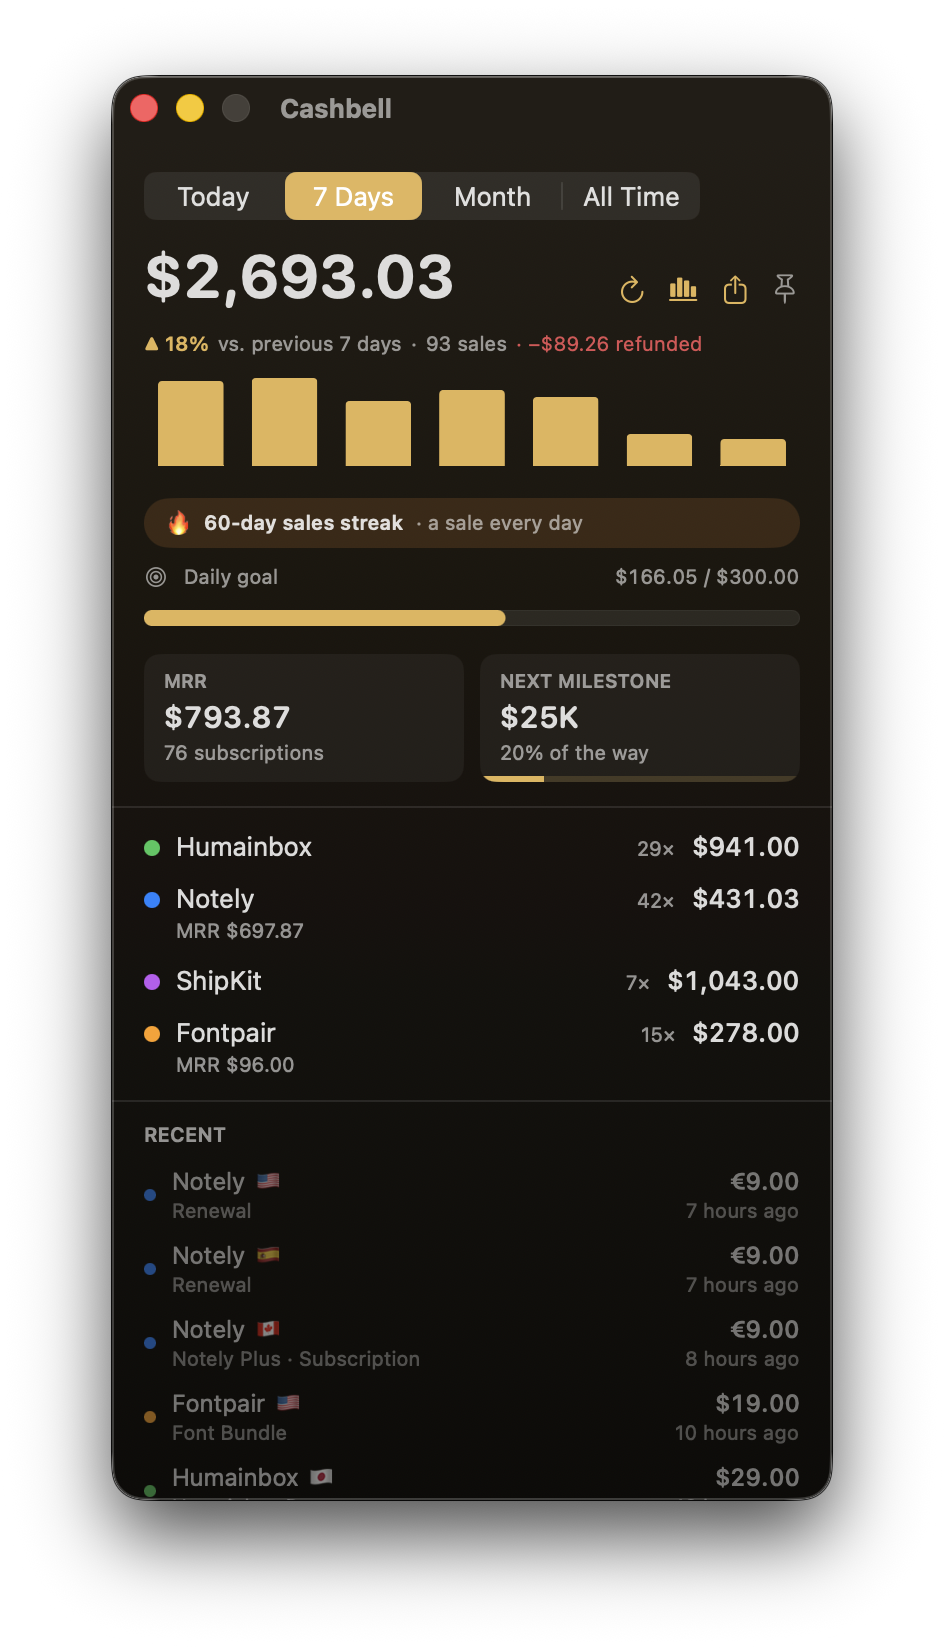
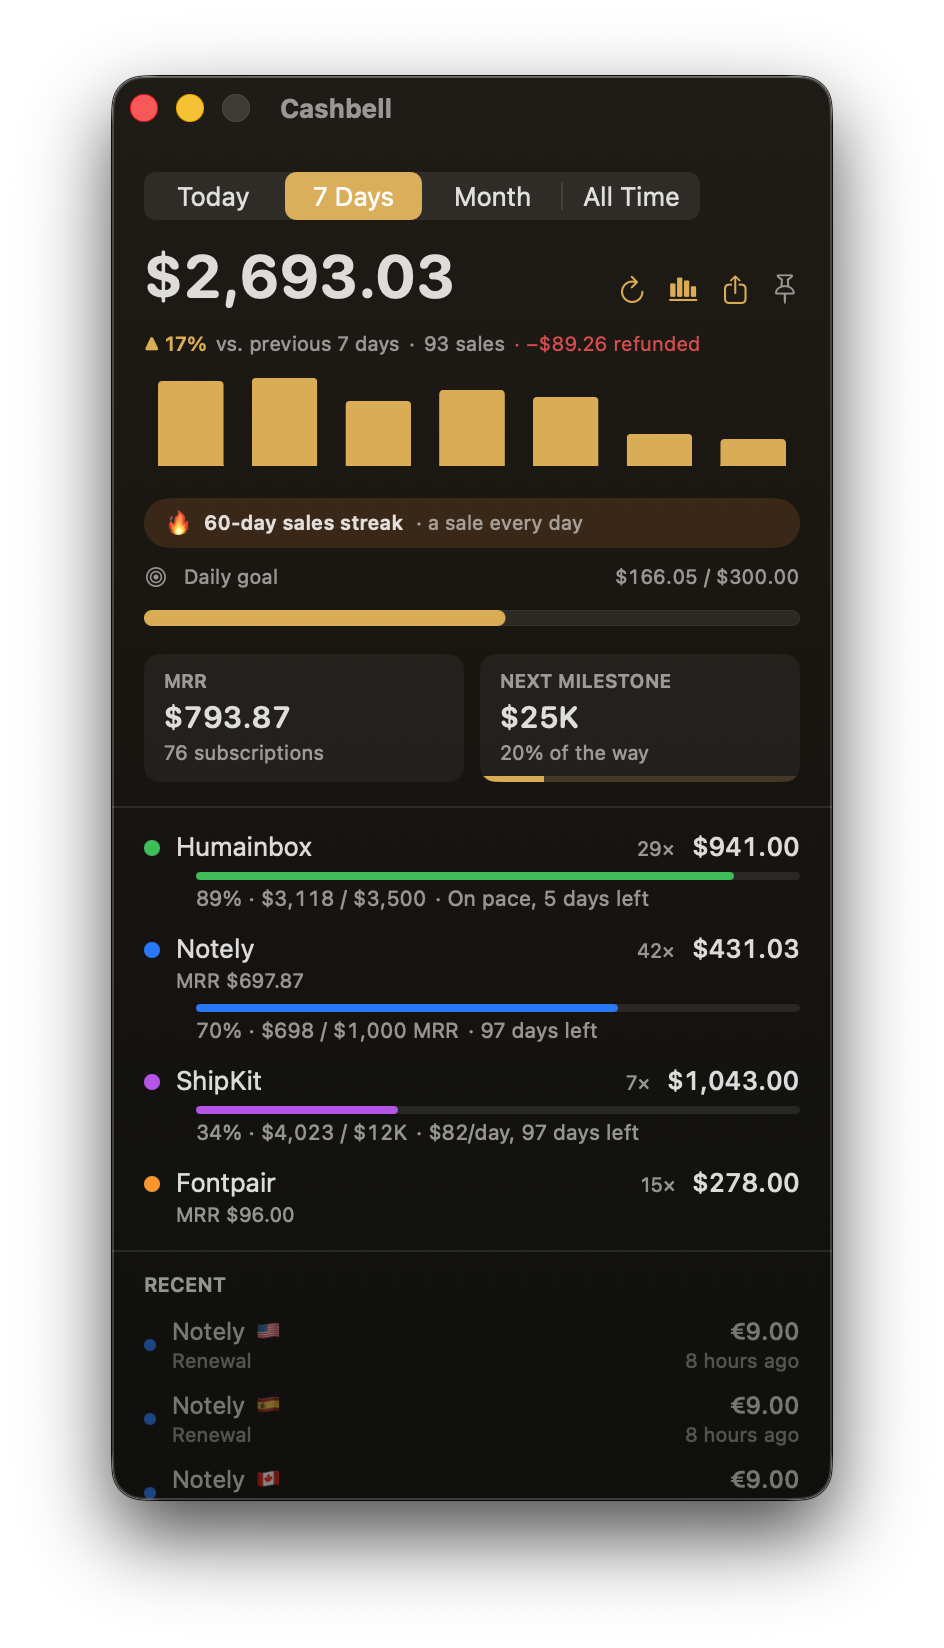
docs: Add project goals

diff --git a/README.md b/README.md
@@ -17,7 +17,7 @@ No server, no account, no spreadsheet refreshing. Just the sound of your side pr
 
 ## What it does
 
-<img src="assets/dashboard.png" width="330" align="right" alt="The Cashbell dashboard: weekly revenue with trend and chart, daily goal, MRR, next milestone, per-project totals and recent sales">
+<img src="assets/dashboard.png" width="330" align="right" alt="The Cashbell dashboard: weekly revenue with trend and chart, daily goal, MRR, next milestone, per-project totals with goal progress, and recent sales">
 
 **💰 Live totals in the menu bar.** Today, 7 days, this month or all time, converted to your currency and net of refunds. Or show MRR, ARR, active subscriptions, or just the icon. Double-click the icon to open the dashboard in a window.
 
@@ -25,7 +25,7 @@ No server, no account, no spreadsheet refreshing. Just the sound of your side pr
 
 **🪙 Celebrations you can feel.** Coin rain with a subtle 3D tumble on every display, a sale island on the screen you're working on, and a cha-ching. One switch mutes them all.
 
-**🎯 Goals, milestones and streaks.** Set a daily goal and the menu bar icon becomes a ring that fills through the day. Crossing $1K, $10K and beyond gets a fanfare, and so does a project's very first sale. Sell every day and a 🔥 streak shows up.
+**🎯 Goals, milestones and streaks.** Set a daily goal and the menu bar icon becomes a ring that fills through the day. Crossing $1K, $10K and beyond gets a fanfare, and so does a project's very first sale. Sell every day and a 🔥 streak shows up. Give any project its own goal too: revenue every month, every year or by a date ("$12K by December 31"), or an MRR target, with a bar that shows your pace.
 
 **↩ Refund alerts.** Refunds and chargebacks show up as a red island, so nothing slips by.
 
